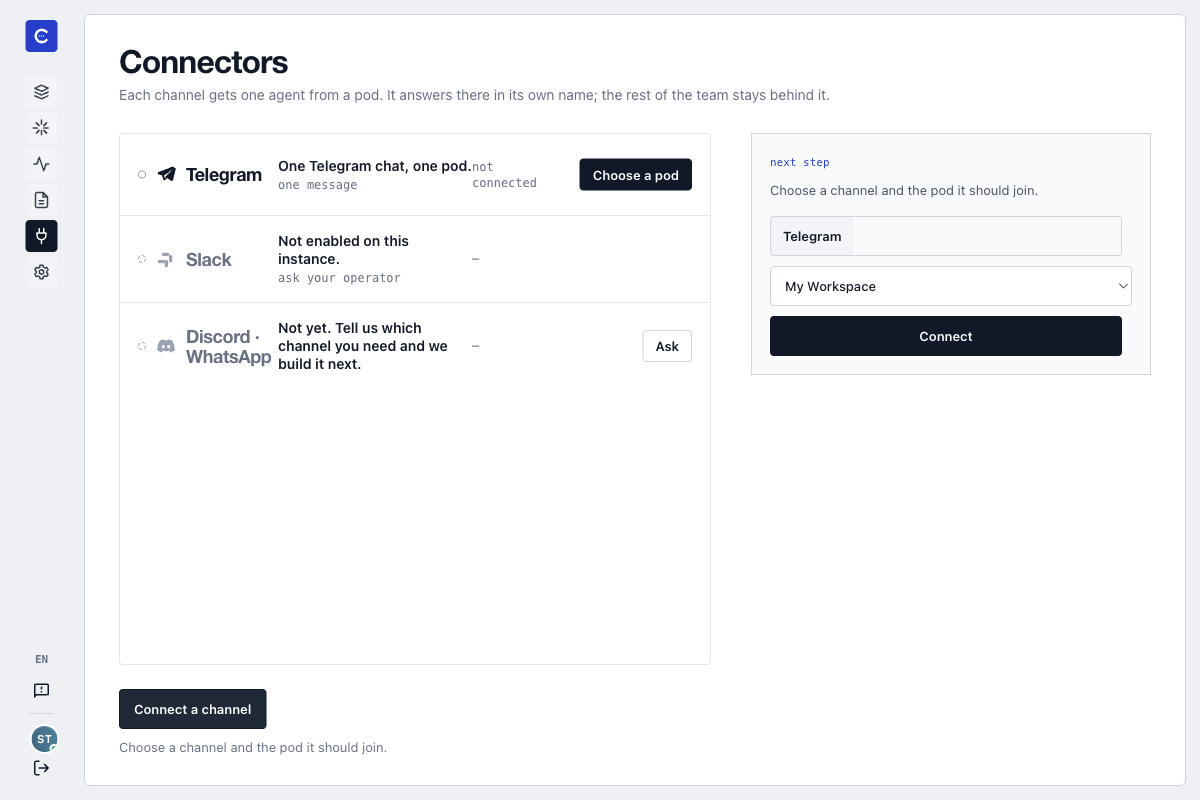
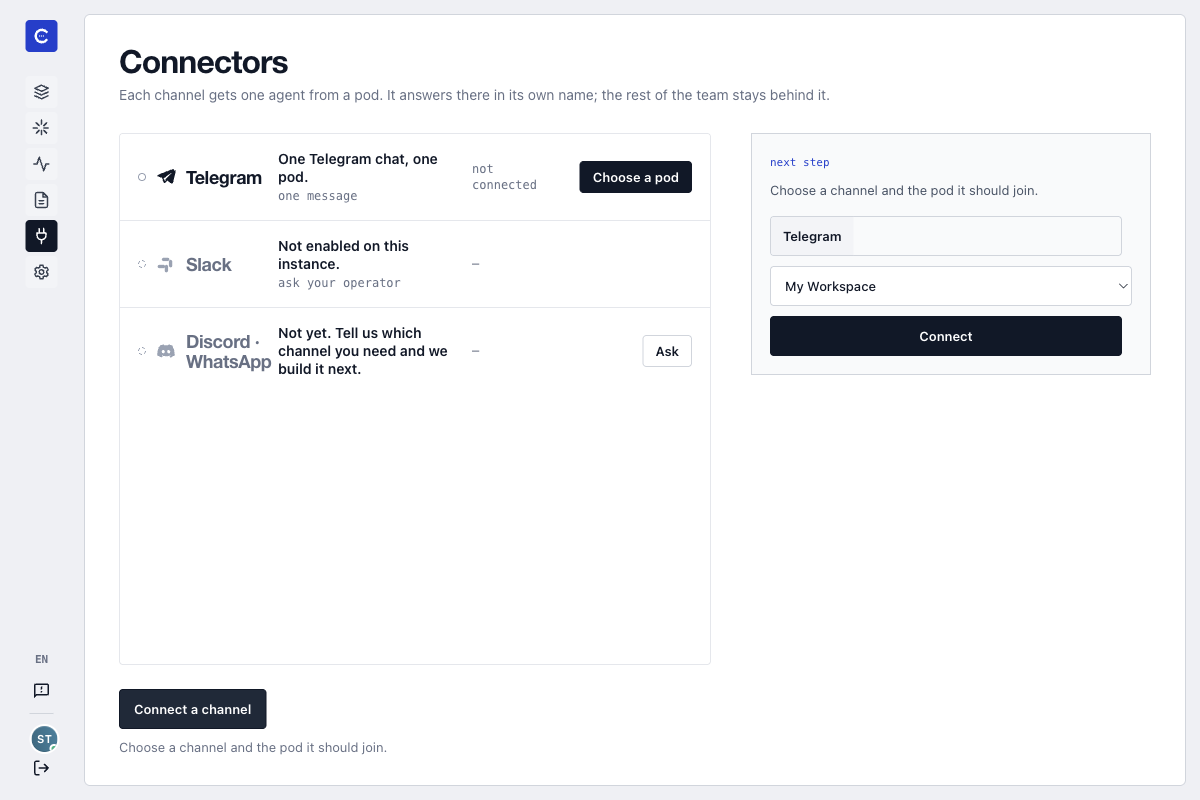
fix(v2): protect connector details at laptop widths

diff --git a/frontend/src/v2/__tests__/v2-layout-invariants.test.ts b/frontend/src/v2/__tests__/v2-layout-invariants.test.ts
@@ -1731,6 +1731,7 @@ describe('v2 layout invariants (CSS rule presence)', () => {
     expect(ruleBody(v2, '.v2-connector-row')).toContain('grid-template-columns: 140px minmax(150px, 1fr) 100px 120px');
     expect(ruleBody(v2, '.v2-root button.v2-connector-row__selection')).toContain('grid-template-columns: 140px minmax(150px, 1fr) 100px');
     expect(ruleBody(v2, '.v2-connectors__content')).toContain('grid-template-columns: minmax(min-content, 1fr) minmax(240px, 400px)');
+    expect(ruleBody(v2, '.v2-connector-row__details')).toContain('padding-right: 8px');
     const connectors = ruleBody(v2, '.v2-connectors');
     expect(connectors).toContain('min-height: calc(100vh - 86px)');
     expect(connectors).not.toContain('max-width');
@@ -1764,7 +1765,7 @@ describe('v2 layout invariants (CSS rule presence)', () => {
     expect(ruleBody(v2, '.v2-tools__trail-line')).toContain('var(--v2-font-mono)');
     expect(ruleBody(v2, '.v2-tools__count strong')).toContain('font-size: 22px');
     expect(ruleBody(v2, '.v2-tools__count span')).toContain('font-size: 11px');
-    expect(connectorCss).toMatch(/@media \(max-width: 1000px\) \{[\s\S]*?\.v2-connectors__content \{ grid-template-columns: minmax\(0, 1fr\); gap: 24px;/);
+    expect(connectorCss).toMatch(/@media \(max-width: 1050px\) \{[\s\S]*?\.v2-connectors__content \{ grid-template-columns: minmax\(0, 1fr\); gap: 24px;/);
     expect(connectorCss).toMatch(/@media \(max-width: 760px\) \{[\s\S]*?\.v2-connector-row \{ grid-template-columns: minmax\(0, 1fr\) auto;/);
     expect(connectorCss).toMatch(/@media \(max-width: 760px\) \{[\s\S]*?\.v2-connectors__content \{ grid-template-columns: minmax\(0, 1fr\);/);
     expect(connectorCss).toMatch(/@media \(max-width: 760px\) \{[\s\S]*?\.v2-connectors \{ min-height: 0; gap: 24px; margin: -12px -18px 0;/);

diff --git a/frontend/src/v2/v2.css b/frontend/src/v2/v2.css
@@ -9669,7 +9669,7 @@ body.modern-ui.v2-canvas {
 @media (prefers-reduced-motion: reduce) {
   .v2-connector-row__dot--pulse { animation: none; }
 }
-.v2-connector-row__details { display: flex; min-width: 0; flex-direction: column; gap: 2px; color: var(--v2-text-secondary); font-size: 13px; line-height: 18px; }
+.v2-connector-row__details { display: flex; min-width: 0; padding-right: 8px; flex-direction: column; gap: 2px; color: var(--v2-text-secondary); font-size: 13px; line-height: 18px; }
 /* Line 1 wraps like meta does; a sentence never ellipsises at 390 (wren, 64144). */
 .v2-connector-row__details strong { color: var(--v2-ink); font-size: 14px; font-weight: 600; overflow-wrap: anywhere; }
 .v2-connector-row__detail, .v2-connector-row__when { color: var(--v2-text-tertiary); font-family: var(--v2-font-mono); font-size: 12px; line-height: 16px; }
@@ -9810,7 +9810,7 @@ body.modern-ui.v2-canvas {
 .v2-tools__agents { display: grid; gap: 6px; }
 .v2-tools__hint { color: var(--v2-text-secondary); font-size: 12px; line-height: 18px; }
 .v2-tools__hint code { display: inline-block; margin: 0 6px 4px 0; padding: 1px 6px; border: 1px solid var(--v2-border-soft); border-radius: var(--v2-radius-sm); font-family: var(--v2-font-mono); font-size: 12px; white-space: nowrap; }
-@media (max-width: 1000px) {
+@media (max-width: 1050px) {
   .v2-connectors__content { grid-template-columns: minmax(0, 1fr); gap: 24px; }
 }
 @media (max-width: 760px) {
